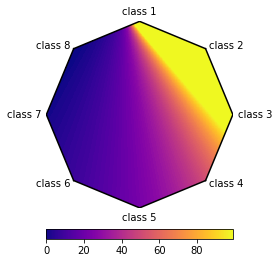
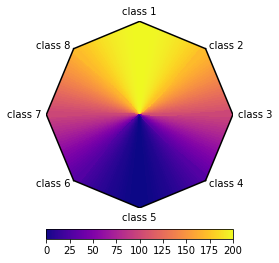
better example for 8 dimensions

diff --git a/multi_bary_plot/multi_bary_plot.py b/multi_bary_plot/multi_bary_plot.py
@@ -116,10 +116,10 @@ class multi_bary_plot:
         vals = df['val'][ind]
         return vals.values.reshape(self.grid.shape[1:])
 
+    @property
     def in_hull(self):
-        """Determines element-wise whether the points are
-        inside of the convex hull spanned by the vertices
-        of the barycentric coordinate system."""
+        """A mask of the grid for the part outside
+        the simplex."""
         points = self.fgrid.T
         inside = np.repeat(True, len(points))
         for simplex in self.hull:
@@ -135,7 +135,7 @@ class multi_bary_plot:
         """The Pixel colors masked to the inside of
         the barycentric coordinate system."""
         values = self._vals_on_grid()
-        return np.ma.masked_where(~self.in_hull(), values)
+        return np.ma.masked_where(~self.in_hull, values)
     
     @property
     def textPos(self):

diff --git a/README.md b/README.md
@@ -3,7 +3,9 @@
 
 A classy way to get a 2-d visualization of n-dimensional data using the generalized barycentric coordinate system.
 
-We use the closest value in barycentric coordinates to color the pixels according to the given values.
+We use the closest value in barycentric coordinates to color the pixels according to the given values. For each point the dimensions are normalized to a partition of 1 and multiplied with the vertices of the coordinat system defining polygon.
+
+**Note** all dimensions need to be positive for the point to lie within the polygon and at least one dimension needs to have a value other than 0 for the position to be defined.
 
 ## Install
 
@@ -44,17 +46,18 @@ fig, ax, im = bp.plot()
 
 ```python
 # generate data
-vec = list(range(100))
-pdat = pd.DataFrame({'class 1':vec,
-                     'class 2':[v**2/10 for v in vec],
-                     'class 3':vec,
-                     'class 4':vec,
-                     'class 5':vec,
-                     'class 6':vec,
-                     'class 7':[50]*100,
-                     'class 8':[50]*100,
-                     'val':vec})
-
+import numpy as np
+vec = np.pi * np.array(range(201)) / 100
+pos = np.sin(vec)+1
+pdat = pd.DataFrame({'class 1':pos,
+                     'class 2':np.roll(pos, 25),
+                     'class 3':np.roll(pos, 50),
+                     'class 4':np.roll(pos, 75),
+                     'class 5':np.roll(pos, 100),
+                     'class 6':np.roll(pos, 125),
+                     'class 7':np.roll(pos, 150),
+                     'class 8':np.roll(pos, 175),
+                     'val':pos*100})
 # plot
 bp = multi_bary_plot(pdat, 'val')
 fig, ax, im = bp.plot(cmap='plasma')
